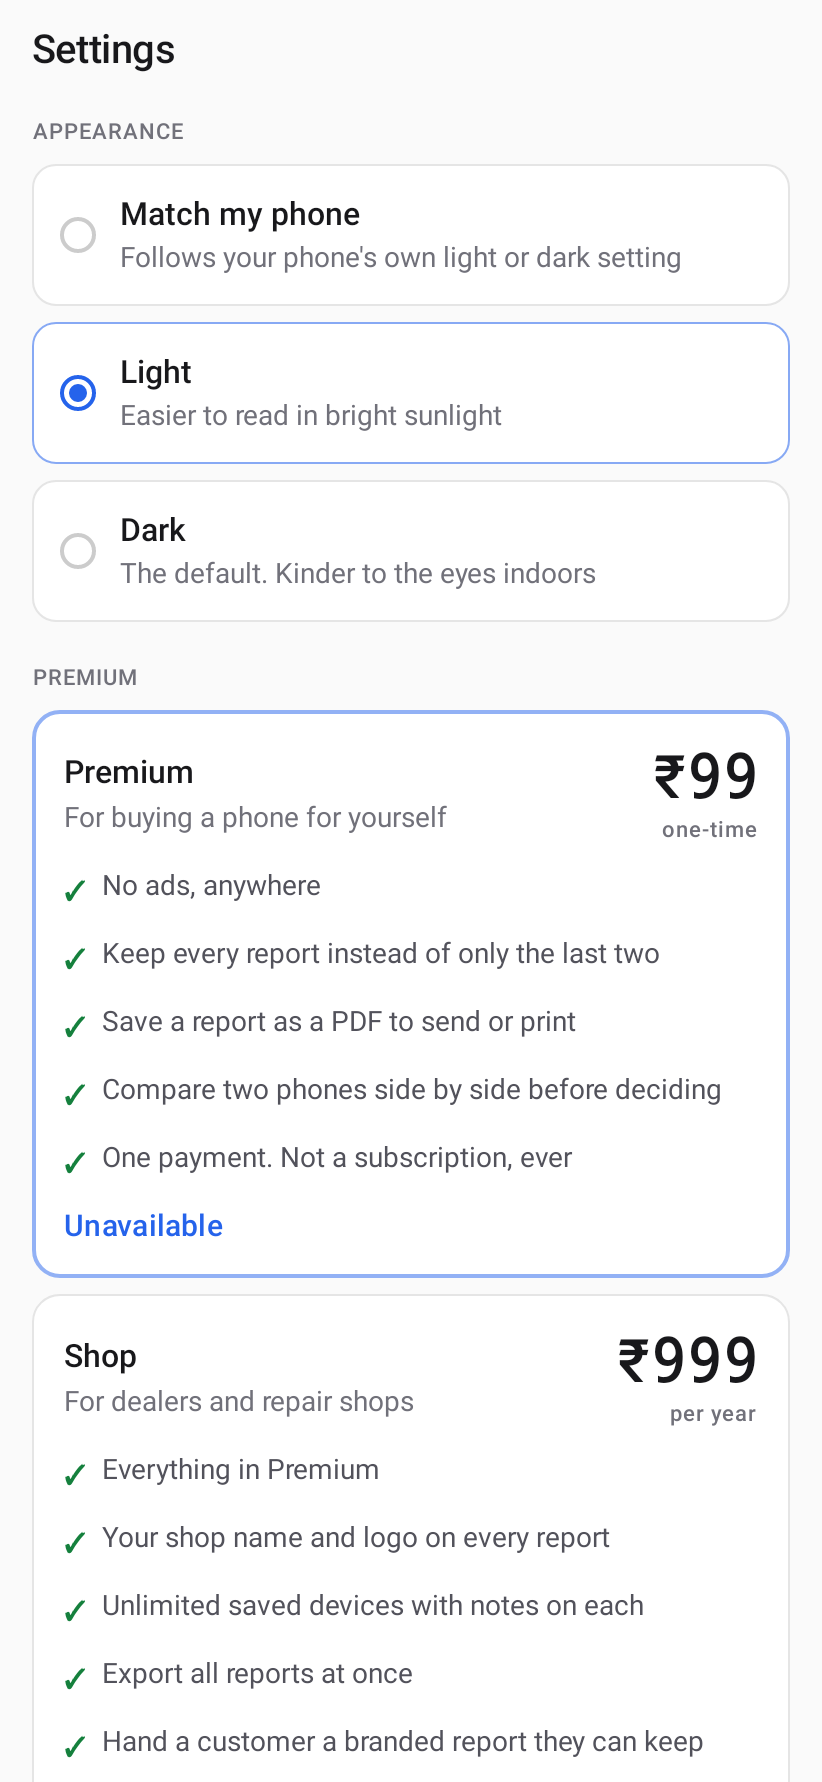
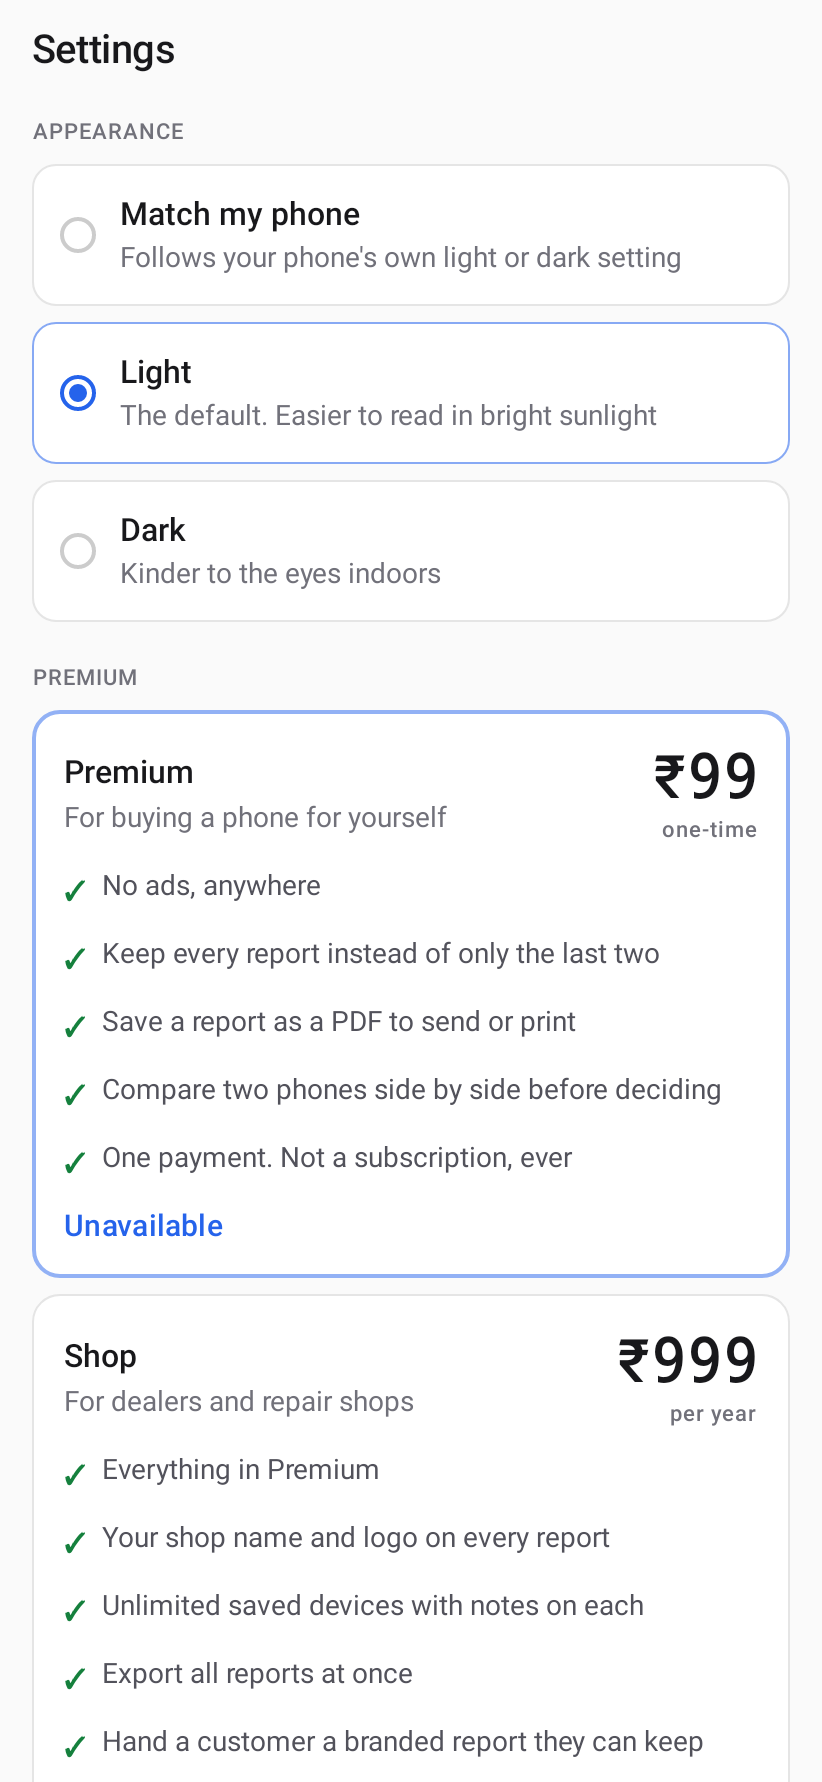
Make light mode the default
Light on a fresh install. The default lives in one place -- the repository's
fallback when nothing has been stored -- rather than being repeated per
screen, so there is a single answer to what a new user sees.

Three things had to move with it, and each would have been a quiet lie
otherwise:

- The Settings copy said "The default" on Dark. That sentence follows the
  default, or the settings screen tells every new user the wrong thing
  about the screen they are looking at.
- MainActivity's first frame used SYSTEM while the stored value loads.
  It now uses LIGHT, so whoever has not changed the theme sees no flash at
  all, which is most people. Someone who chose Dark gets one light frame.
  That trade is deliberate: blocking the first frame on a disk read would
  slow every launch on the cheap hardware this app is most used on.
- The ThemeMode KDoc claimed SYSTEM was the default.

The palette CompositionLocal's fallback moved from dark to light too, and
that is what caught a real problem. The launcher-icon preview turned white,
because it was reading the palette with no PhoneProofTheme around it and had
been silently relying on that fallback. Its icon tiles had matched the
shipped icon by accident, not by intent.

The preview now pins its own theme and takes the icon background from the
real value in res/values/colors.xml. A launcher icon does not follow the
app's light or dark setting, so a preview that did was showing something no
[…]

Changed region(s): [[0.1521, 0.3086, 0.7299, 0.3395], [0.1521, 0.216, 0.6691, 0.2469], [0.6995, 0.216, 0.7908, 0.2469]]

diff --git a/core/designsystem/src/test/kotlin/com/phoneproof/core/designsystem/IconPreviewTest.kt b/core/designsystem/src/test/kotlin/com/phoneproof/core/designsystem/IconPreviewTest.kt
@@ -24,6 +24,7 @@ import androidx.compose.ui.unit.Dp
 import androidx.compose.ui.unit.dp
 import com.github.takahirom.roborazzi.captureRoboImage
 import com.phoneproof.core.designsystem.theme.PhoneProofTheme
+import com.phoneproof.core.designsystem.theme.ThemeMode
 import com.phoneproof.core.designsystem.theme.PhoneProofType
 import org.junit.Rule
 import org.junit.Test
@@ -87,6 +88,12 @@ class IconPreviewTest {
     @Test
     fun launcher_icon_at_every_size_it_will_be_seen_at() {
         composeRule.setContent {
+            // Pinned to dark, like every other render in this project. This preview previously read
+            // the palette with no theme around it, so it silently used the CompositionLocal fallback
+            // — and the moment that fallback changed with the app's default, the icon tiles turned
+            // white while the shipped icon stayed near-black. A render that depends on a fallback is
+            // a render that moves for reasons unrelated to what it is testing.
+            PhoneProofTheme(themeMode = ThemeMode.DARK) {
             Column(
                 modifier = Modifier
                     .background(Color(0xFF1C1C20))
@@ -101,7 +108,11 @@ class IconPreviewTest {
                         AdaptiveIconPreview(
                             size = it,
                             drawableRes = R.drawable.ic_launcher_foreground,
-                            background = PhoneProofTheme.colors.background,
+                            // The launcher's real background from res/values/colors.xml, not the
+                            // theme's. The icon on a phone's home screen does not follow the app's
+                            // light or dark setting, so a preview that did would be showing
+                            // something the user never sees.
+                            background = LAUNCHER_BACKGROUND,
                         )
                     }
                 }
@@ -132,7 +143,13 @@ class IconPreviewTest {
                     color = PhoneProofTheme.colors.textSecondary,
                 )
             }
+            }
         }
         composeRule.onRoot().captureRoboImage("$outputDir/icon-sizes.png")
+    }
+
+    private companion object {
+        /** Mirrors `R.color.ic_launcher_background` (#FF0A0A0B). */
+        val LAUNCHER_BACKGROUND = Color(0xFF0A0A0B)
     }
 }

diff --git a/app/src/main/kotlin/com/phoneproof/app/MainActivity.kt b/app/src/main/kotlin/com/phoneproof/app/MainActivity.kt
@@ -25,12 +25,14 @@ class MainActivity : ComponentActivity() {
 
         setContent {
             val repository = remember { SettingsRepository(applicationContext) }
-            // SYSTEM for the first frame, because the stored value is read asynchronously. Someone
-            // who picked Light on a dark-mode phone therefore gets one dark frame at cold start.
-            // Accepted rather than blocking the first frame on a disk read: a brief flash is a
-            // smaller cost than a slower launch on a cheap phone, which is the hardware this app
-            // is most often used on.
-            val themeMode by repository.themeMode.collectAsState(initial = ThemeMode.SYSTEM)
+            // LIGHT for the first frame, matching the stored default, because the stored value is
+            // read asynchronously. Whoever has not changed the theme therefore sees no flash at all,
+            // which is most people; someone who chose Dark gets one light frame at cold start.
+            //
+            // That trade is deliberately the way round it is. Blocking the first frame on a disk read
+            // would slow every launch on the cheap hardware this app is most used on, and a flash for
+            // the minority who changed the setting is the cheaper cost.
+            val themeMode by repository.themeMode.collectAsState(initial = ThemeMode.LIGHT)
 
             PhoneProofTheme(themeMode = themeMode) {
                 Surface(

diff --git a/core/designsystem/src/main/kotlin/com/phoneproof/core/designsystem/theme/Color.kt b/core/designsystem/src/main/kotlin/com/phoneproof/core/designsystem/theme/Color.kt
@@ -50,7 +50,8 @@ data class PhoneProofPalette(
 }
 
 /**
- * Dark is the app's native form. The background is not pure black on purpose: #000 smears visibly
+ * Dark, which is now a choice rather than the default. The background is not pure black on purpose:
+ * #000 smears visibly
  * on OLED panels, which would be a poor look in an app whose job is to inspect OLED panels.
  */
 val DarkPalette = PhoneProofPalette(
@@ -102,4 +103,10 @@ val LightPalette = PhoneProofPalette(
  * Static rather than dynamic: the palette changes only when the user picks a different theme, so
  * there is no reason to make every reader recompose on a value that is effectively constant.
  */
-val LocalPhoneProofPalette = staticCompositionLocalOf { DarkPalette }
+// Falls back to light, matching the app's default, so a palette read without a theme around it
+// cannot disagree with what the rest of the app is doing.
+//
+// This is a fallback and not a default anyone should rely on: changing it moved the launcher-icon
+// preview, which turned out to be reading the palette with no theme wrapper at all. That render now
+// pins its own theme. If another one moves when this line changes, that render is the bug.
+val LocalPhoneProofPalette = staticCompositionLocalOf { LightPalette }

diff --git a/feature/settings/src/main/kotlin/com/phoneproof/feature/settings/SettingsScreen.kt b/feature/settings/src/main/kotlin/com/phoneproof/feature/settings/SettingsScreen.kt
@@ -420,6 +420,8 @@ private val ThemeMode.label: String
 private val ThemeMode.description: String
     get() = when (this) {
         ThemeMode.SYSTEM -> "Follows your phone's own light or dark setting"
-        ThemeMode.LIGHT -> "Easier to read in bright sunlight"
-        ThemeMode.DARK -> "The default. Kinder to the eyes indoors"
+        // "The default" moves with the default. Leaving it on Dark would have made the settings
+        // screen quietly lie to every new user about what they were looking at.
+        ThemeMode.LIGHT -> "The default. Easier to read in bright sunlight"
+        ThemeMode.DARK -> "Kinder to the eyes indoors"
     }

diff --git a/core/designsystem/src/main/kotlin/com/phoneproof/core/designsystem/theme/Theme.kt b/core/designsystem/src/main/kotlin/com/phoneproof/core/designsystem/theme/Theme.kt
@@ -9,7 +9,7 @@ import androidx.compose.runtime.CompositionLocalProvider
 import androidx.compose.runtime.ReadOnlyComposable
 import androidx.compose.ui.graphics.Color
 
-/** Which theme the user has chosen. Persisted; [SYSTEM] is the default. */
+/** Which theme the user has chosen. Persisted; [LIGHT] is the default. */
 enum class ThemeMode {
     SYSTEM,
     LIGHT,
@@ -23,7 +23,7 @@ enum class ThemeMode {
  */
 @Composable
 fun PhoneProofTheme(
-    themeMode: ThemeMode = ThemeMode.SYSTEM,
+    themeMode: ThemeMode = ThemeMode.LIGHT,
     content: @Composable () -> Unit,
 ) {
     val dark = when (themeMode) {

diff --git a/core/preferences/src/main/kotlin/com/phoneproof/core/preferences/SettingsRepository.kt b/core/preferences/src/main/kotlin/com/phoneproof/core/preferences/SettingsRepository.kt
@@ -31,7 +31,9 @@ class SettingsRepository(private val context: Context) {
         }
         .map { preferences ->
             val stored = preferences[THEME_KEY]
-            ThemeMode.entries.firstOrNull { it.name == stored } ?: ThemeMode.SYSTEM
+            // Light when nothing has been chosen. This is the one place that decides it for a fresh
+            // install, so the app-wide default lives here rather than being repeated per screen.
+            ThemeMode.entries.firstOrNull { it.name == stored } ?: ThemeMode.LIGHT
         }
 
     suspend fun setThemeMode(mode: ThemeMode) {

diff --git a/feature/settings/src/main/kotlin/com/phoneproof/feature/settings/SettingsUiState.kt b/feature/settings/src/main/kotlin/com/phoneproof/feature/settings/SettingsUiState.kt
@@ -59,7 +59,7 @@ enum class PremiumPlan(
 
 @Immutable
 data class SettingsUiState(
-    val themeMode: ThemeMode = ThemeMode.SYSTEM,
+    val themeMode: ThemeMode = ThemeMode.LIGHT,
     val versionName: String = "",
     val versionCode: Long = 0L,
     /**
